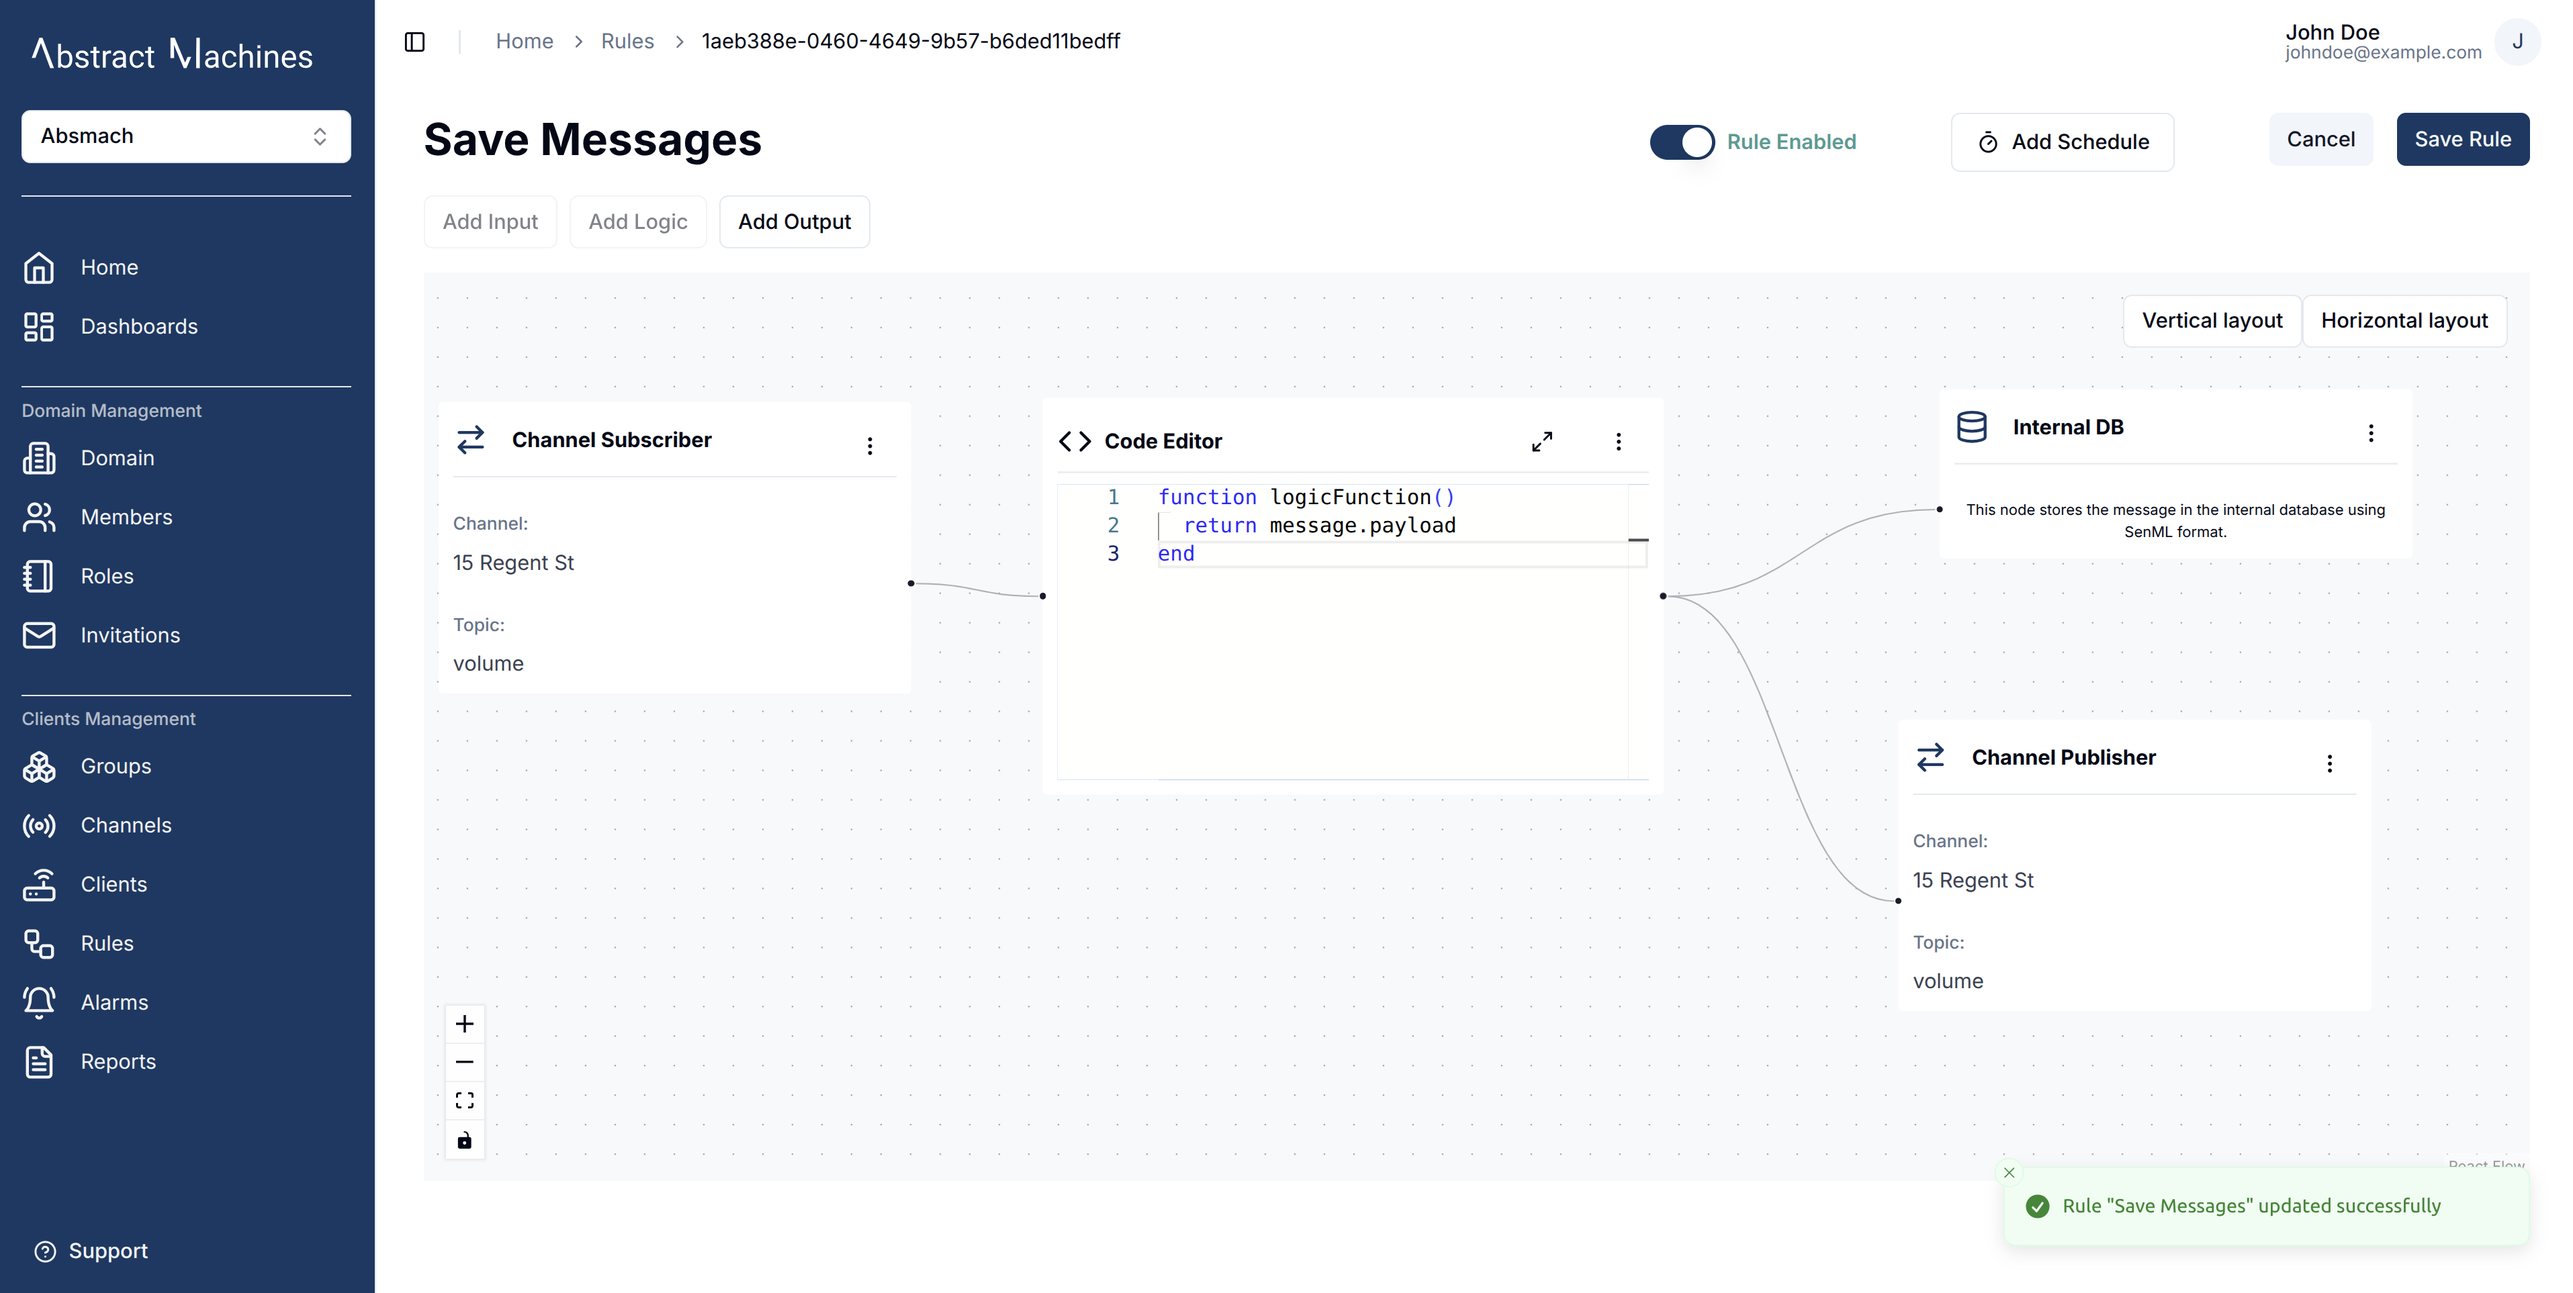
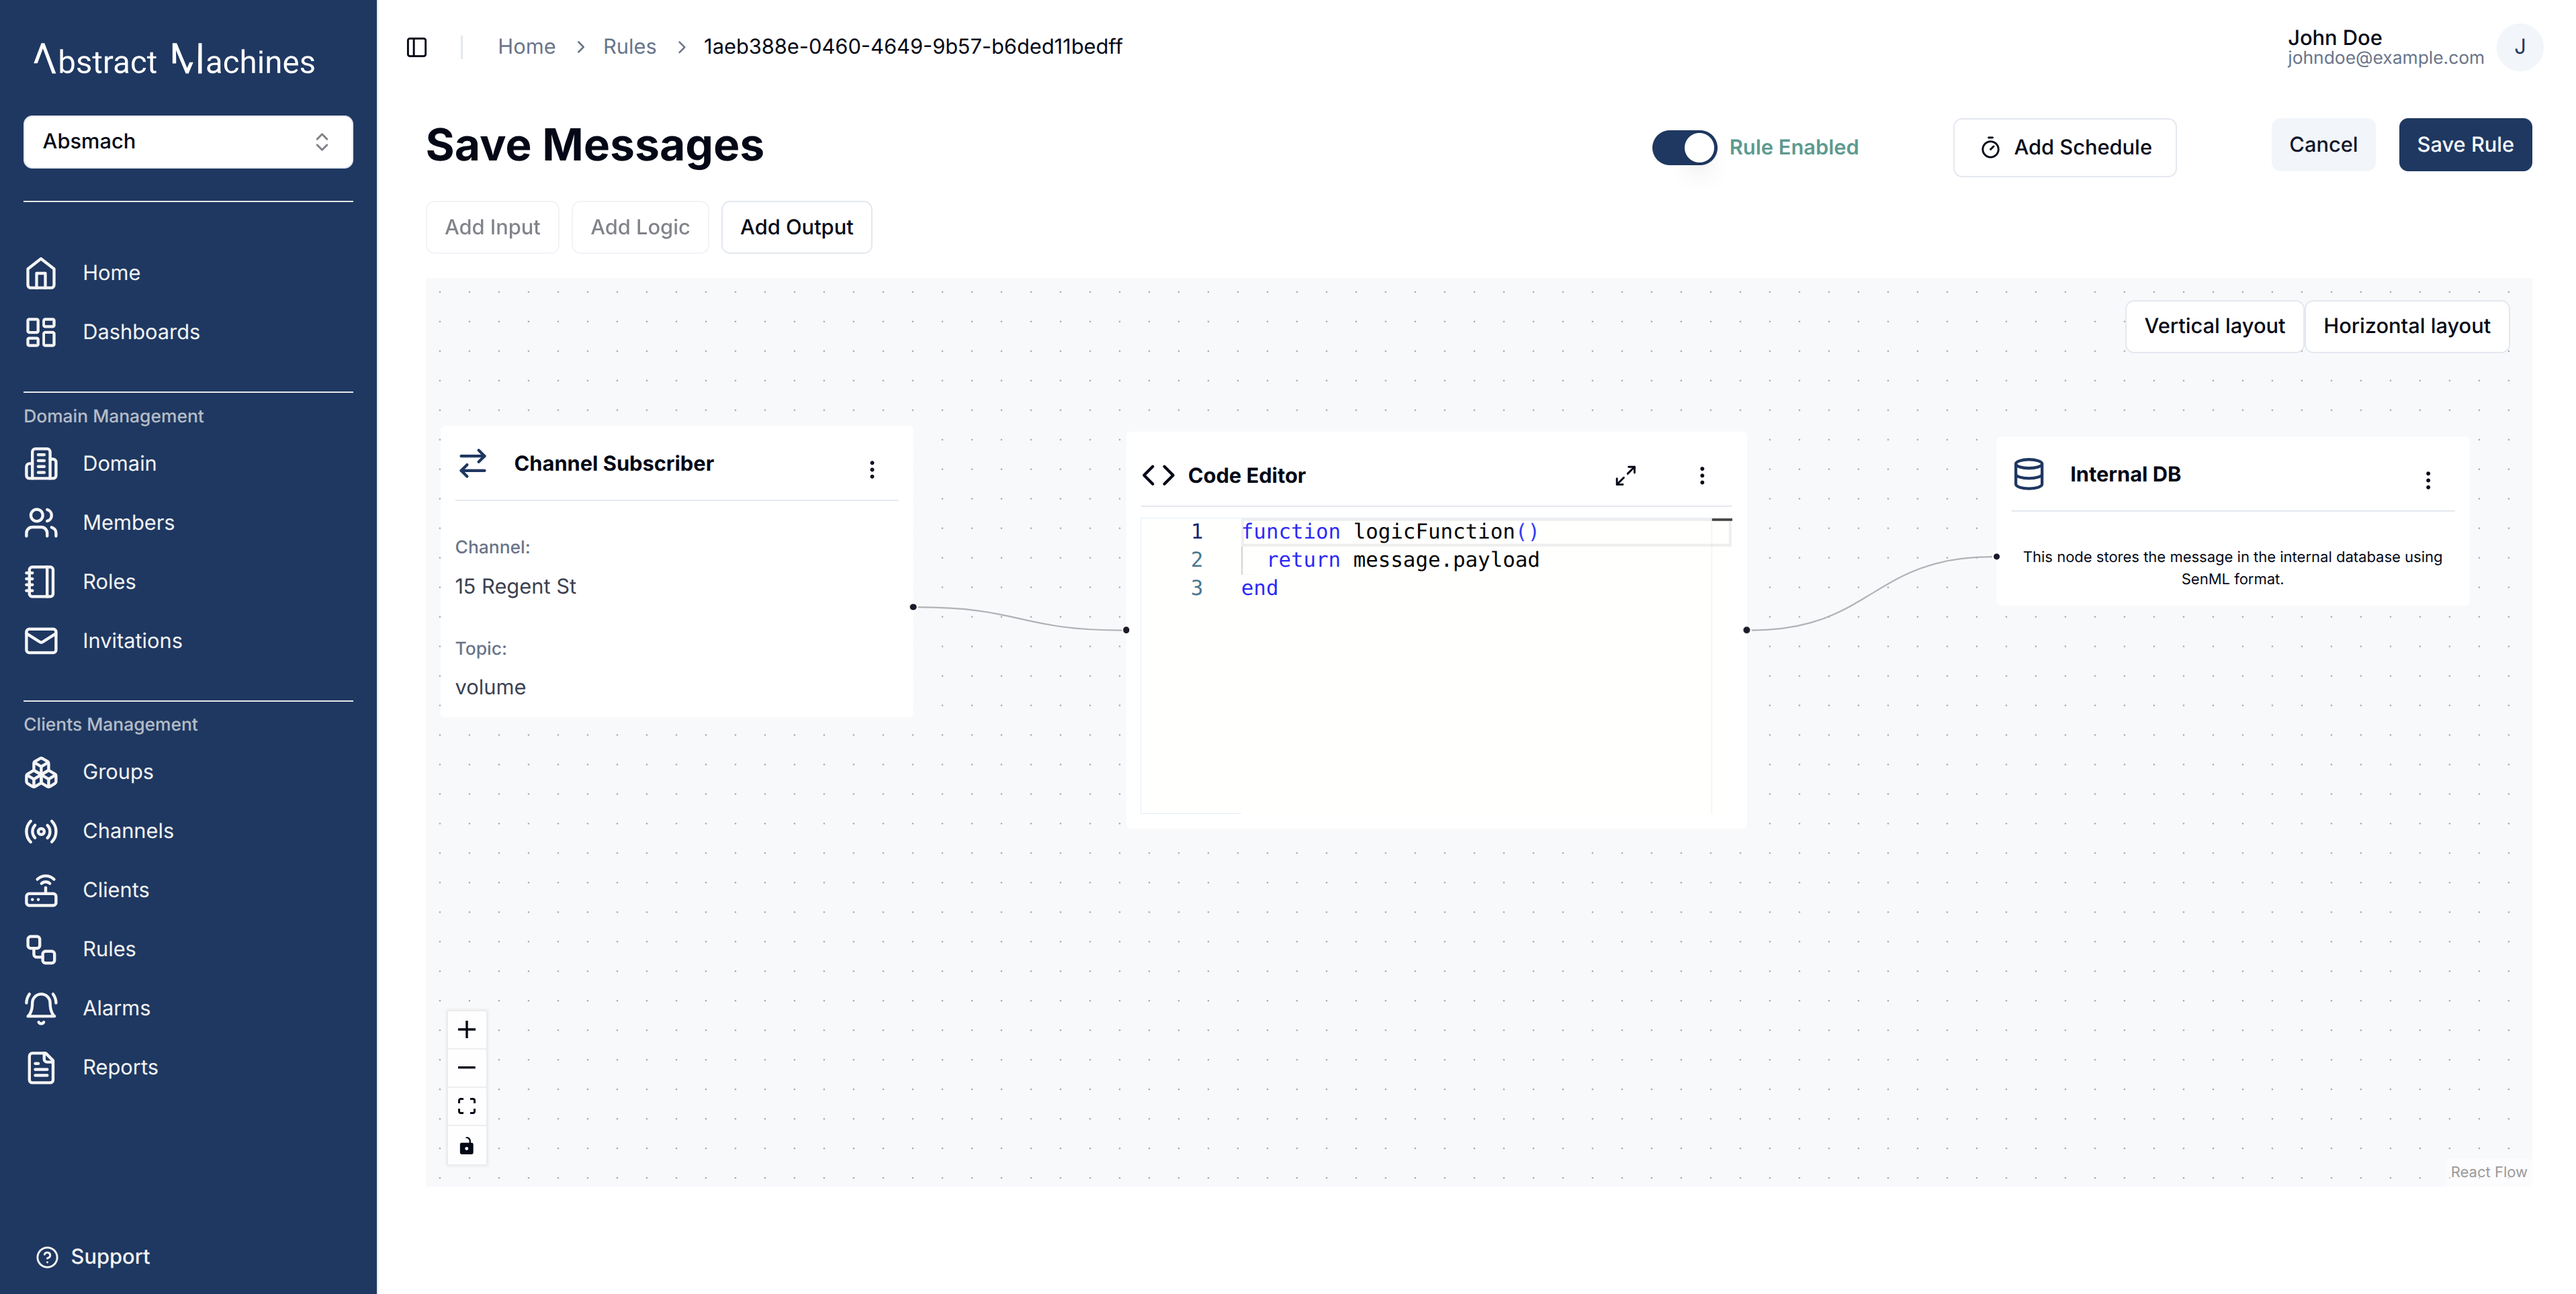
update rule

diff --git a/docs/user-guide/users-quick-start.md b/docs/user-guide/users-quick-start.md
@@ -144,8 +144,6 @@ This will be able to return the SenML payload of the messsages published.
 
 Finally select the **Internal DB** option from the **Output Node** dialog option which will store the messages in the internal Magistrala Postgres DB.
 
-Then a **Channel Publisher** with a subtopic must be present.
-
 ![Save Rule](../img/users-guide/save-rule.png)
 
 > More information about Rules Creation and Updating can be found in the [Rules Engine Section](./rules-engine.md)
